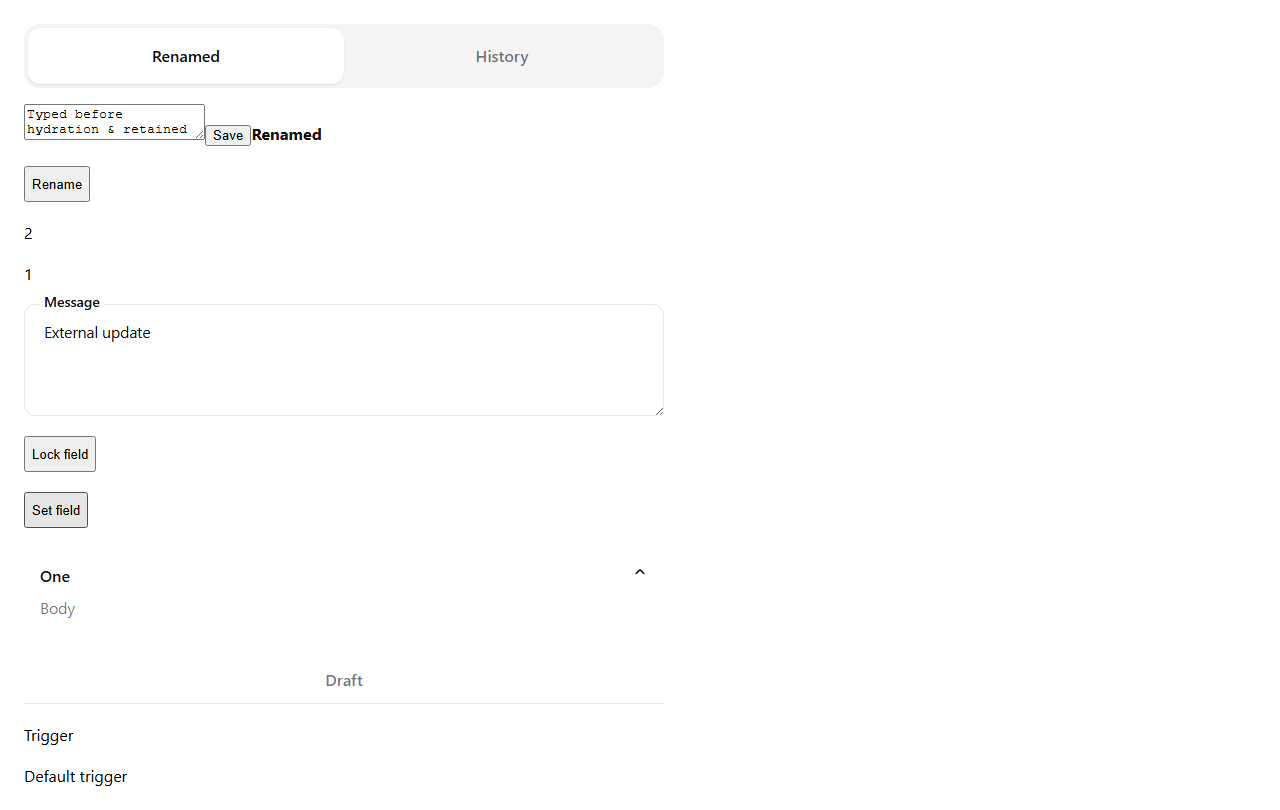
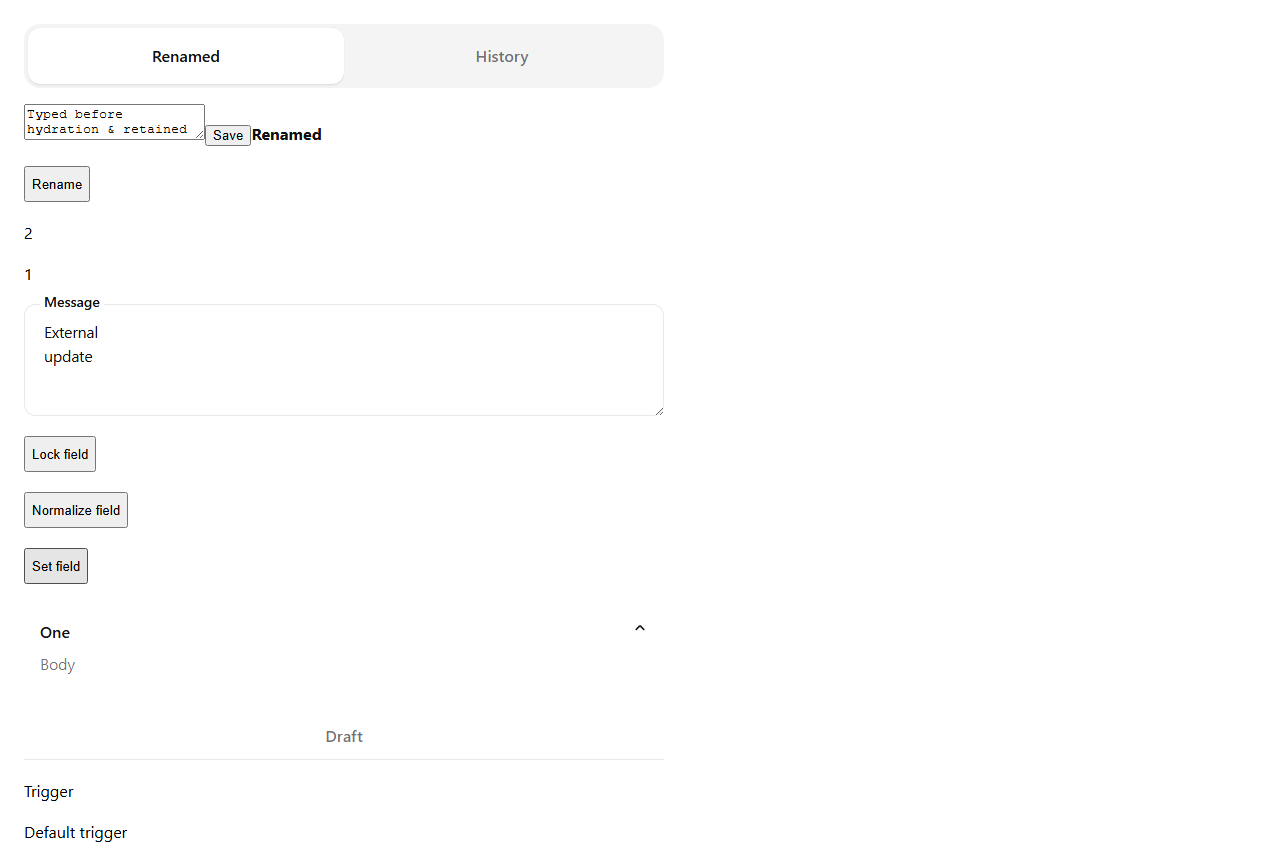
fix: preserve hydrated drafts across HTML newline normalization

diff --git a/apps/docs/tests/fixtures/framework-ssr/SvelteApp.svelte b/apps/docs/tests/fixtures/framework-ssr/SvelteApp.svelte
@@ -1,7 +1,8 @@
 <script>
 import {Tabs,Textarea,Accordion,Tooltip} from '@labpics/ui-svelte';
+import {serverFieldValue, normalizedServerFieldValue, externalFieldValue} from './field-values.mjs';
 let caption=$state('Draft'), selected=$state('draft'), events=$state(0), clicks=$state(0);
-let fieldValue=$state('Server field'),locked=$state(false);
+let fieldValue=$state(serverFieldValue),locked=$state(false);
 let items=$derived([{value:'draft',label:caption},{value:'history',label:'History'}]);
 </script>
 {#snippet draft()}
@@ -19,7 +20,8 @@ let items=$derived([{value:'draft',label:caption},{value:'history',label:'Histor
   <output id="events">{events}</output><output id="clicks">{clicks}</output>
   <Textarea id="field" label="Message" value={fieldValue} readonly={locked} />
   <button id="lock-field" onclick={()=>locked=true}>Lock field</button>
-  <button id="set-field" onclick={()=>fieldValue='External update'}>Set field</button>
+  <button id="normalize-field" onclick={()=>fieldValue=normalizedServerFieldValue}>Normalize field</button>
+  <button id="set-field" onclick={()=>fieldValue=externalFieldValue}>Set field</button>
   <Accordion id="accordion" items={[{value:'one',label:'One'}]} value={['one']} collapsible={false} slots={{one}} />
   <Tabs id="null-tabs" {items} value={null} defaultValue="draft" />
   <Tooltip id="tooltip" content="Help" arrow={false}>Trigger</Tooltip>

diff --git a/apps/docs/tests/fixtures/framework-ssr/VueApp.vue b/apps/docs/tests/fixtures/framework-ssr/VueApp.vue
@@ -5,11 +5,16 @@ import { Textarea } from '@labpics/ui-vue/textarea';
 import { Tooltip } from '@labpics/ui-vue/tooltip';
 import { computed, ref } from 'vue';
 import Editor from './VueEditor.vue';
+import {
+  externalFieldValue,
+  normalizedServerFieldValue,
+  serverFieldValue,
+} from './field-values.mjs';
 const caption = ref('Draft');
 const selected = ref('draft');
 const events = ref(0);
 const clicks = ref(0);
-const fieldValue = ref('Server field');
+const fieldValue = ref(serverFieldValue);
 const locked = ref(false);
 const items = computed(() => [
   { value: 'draft', label: caption.value },
@@ -32,7 +37,8 @@ const changed = (e) => {
   <output id="events">{{events}}</output><output id="clicks">{{clicks}}</output>
   <Textarea id="field" label="Message" :value="fieldValue" :readonly="locked" />
   <button id="lock-field" @click="locked=true">Lock field</button>
-  <button id="set-field" @click="fieldValue='External update'">Set field</button>
+  <button id="normalize-field" @click="fieldValue=normalizedServerFieldValue">Normalize field</button>
+  <button id="set-field" @click="fieldValue=externalFieldValue">Set field</button>
   <Accordion id="accordion" :items="[{value:'one',label:'One'}]" :value="['one']" :collapsible="false">
     <template #one>Body</template>
   </Accordion>

diff --git a/packages/core/src/adapter-runtime.ts b/packages/core/src/adapter-runtime.ts
@@ -42,11 +42,18 @@ export function forwardDeclared(
     } else if (value === undefined || value === null) {
       element.removeAttribute(spec.attr);
     } else {
-      // Hydration adopts an existing attribute. Writing the same initial value
-      // again fires attributeChangedCallback and can undo a control's recovery
-      // of input typed before JS. Later caller changes must still reach it.
-      if (initial && element.getAttribute(spec.attr) === String(value)) continue;
-      element.setAttribute(spec.attr, String(value));
+      const attributeValue = String(value);
+      // Hydration adopts an existing attribute. HTML parsing changes CRLF/CR to
+      // LF; rewriting that equivalent initial value would fire attribute reactions
+      // and undo recovered user input. Keep exact equality for DOM-created attrs.
+      if (initial) {
+        const existing = element.getAttribute(spec.attr);
+        if (existing === attributeValue || existing === attributeValue.replace(/\r\n?/g, '\n'))
+          continue;
+      }
+      // Later caller changes always retain their exact value, even when the old
+      // attribute already equals their HTML-normalized form.
+      element.setAttribute(spec.attr, attributeValue);
     }
   }
 }

diff --git a/docs/evidence/framework-ssr-20261119/README.md b/docs/evidence/framework-ssr-20261119/README.md
@@ -17,8 +17,10 @@
 - Все шесть host-элементов, shadow trigger/panel и интерактивные light-DOM узлы
   сохраняются при гидратации. Ошибок и hydration mismatch нет.
 - Текст и выделение, изменённые до JavaScript, сохраняются в обычном textarea и
-  `LabTextarea`. Изменение readonly не повторяет прежний value; новый controlled
-  value применяется без замены внутреннего textarea.
+  `LabTextarea`, в том числе при исходном value со смешанными CRLF, CR и LF.
+  Изменение readonly не повторяет прежний value; новый controlled value применяется
+  без замены внутреннего textarea, даже если это только переход от CRLF/CR к LF.
+  Дальнейший value с CRLF передаётся в host-атрибут без нормализации адаптером.
 - Native click и custom events вызывают обработчики framework; label обновляется
   реактивно. Массивы, явный null, false при default true и пропущенный prop
   сохраняют смысл.
@@ -31,3 +33,9 @@ typecheck четырёх пакетов; Biome и `git diff --check`. Installed 
 Это проверка обычных адаптеров, а не только строковых `/ssr` helpers. Полный
 Nuxt/SolidStart/SvelteKit shell, streaming и closed shadow roots здесь не заявлены.
 Настройка и первоисточники: [framework-ssr.md](../../reference/framework-ssr.md).
+
+Холодное ревью выявило потерю dirty input при CRLF/CR в первоначальном серверном
+значении. Новая fixture воспроизвела сбой на `4a852ef`: после гидратации вместо
+`My uncommitted draft` получалось `Server\nfield\nwith\nbreaks`. Исправление
+ограничено сравнением при первом пробросе. Проверка дальнейшего изменения в LF
+отличает его от ошибочного постоянного подавления эквивалентных записей.
